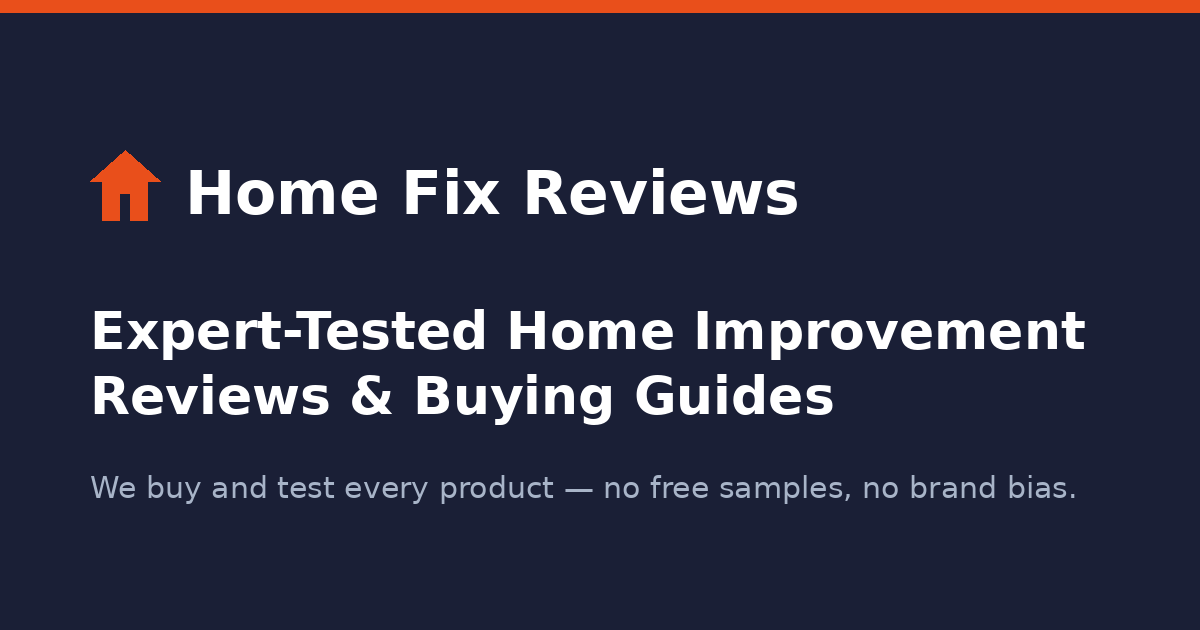
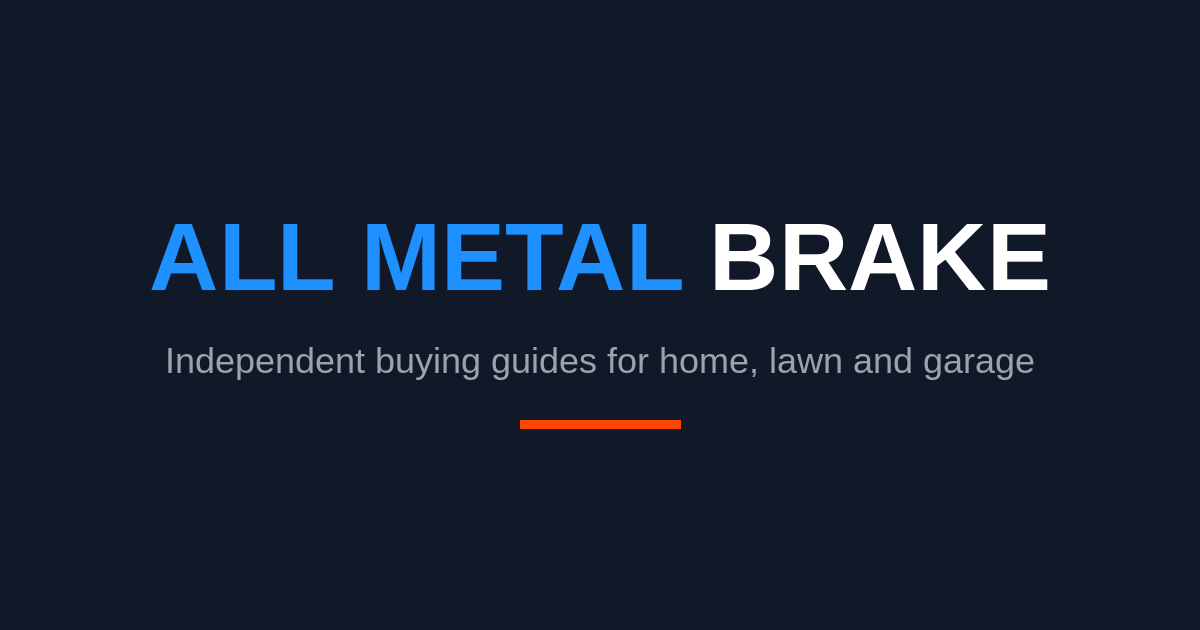
Rename the site to All Metal Brake
Replace the Home Fix Reviews name everywhere: header logo, footer,
titles, schema, About/contact/legal pages, llms files and robots.txt,
plus a new logo and share image.

Claude-Session: https://claude.ai/code/session_014GSf2GYyqR8mNtR6t9m8bQ

Changed region(s): [[0.0617, 0.2413, 0.925, 0.6937], [0.0617, 0.754, 0.8942, 0.8143], [0.0, 0.0, 1.0, 0.0302]]

diff --git a/src/data/authors.ts b/src/data/authors.ts
@@ -22,7 +22,7 @@ export const AUTHORS: Record<string, Author> = {
     short:
       'Alex has spent over a decade working on residential and light commercial property maintenance, and now tests every tool, coating and machine that appears in these guides personally.',
     bio: [
-      'Alex Rivers is the Home Improvement Editor at Home Fix Reviews, where he runs the testing programme for outdoor power equipment, driveway and masonry coatings, garage flooring, and household tools.',
+      'Alex Rivers is the Home Improvement Editor at All Metal Brake, where he runs the testing programme for outdoor power equipment, driveway and masonry coatings, garage flooring, and household tools.',
       'Before joining the site he spent more than a decade maintaining residential and light commercial properties — sealing driveways, coating garage floors, running pressure washers hard enough to kill several of them, and learning which products fail in the second season rather than the first. Most of the strong opinions in these guides come from that period rather than from a spec sheet.',
       'He tests products on real surfaces and real jobs, keeps machines long enough to see how they age, and returns or buys what he tests. He does not accept payment for coverage, and manufacturers do not see a guide before it is published.',
     ],
@@ -97,7 +97,7 @@ export function authorSchema(slugOrPath: string = DEFAULT_AUTHOR) {
     name: a.name,
     url: `${SITE_URL}/authors/${a.slug}/`,
     jobTitle: a.role,
-    worksFor: { '@type': 'Organization', name: 'Home Fix Reviews', url: SITE_URL },
+    worksFor: { '@type': 'Organization', name: 'All Metal Brake', url: SITE_URL },
     knowsAbout: a.beat,
     ...(a.education?.length
       ? { alumniOf: [...new Set(a.education.map((e) => e.school))].map((name) => ({ '@type': 'CollegeOrUniversity', name })) }

diff --git a/src/data/site.ts b/src/data/site.ts
@@ -2,6 +2,6 @@
 // NOTE: confirm this mailbox exists (or change it) before launch — it is shown
 // publicly on /contact/ and used in the Organization schema.
 export const CONTACT_EMAIL = 'editors@allmetalbrake.com';
-export const SITE_NAME = 'Home Fix Reviews';
+export const SITE_NAME = 'All Metal Brake';
 export const SITE_URL = 'https://www.allmetalbrake.com';
 export const FOUNDED = '2024';

diff --git a/src/data/llms-full-intro.md b/src/data/llms-full-intro.md
@@ -1,6 +1,6 @@
-# Home Fix Reviews - Complete Guide for AI Assistants & Agents
+# All Metal Brake - Complete Guide for AI Assistants & Agents
 
-Home Fix Reviews (https://www.allmetalbrake.com/) is an independent, affiliate-funded buying-guide site for the things people fix, seal, coat, cut and power around a house: driveway and concrete sealers and oil-stain removal; garage floor coatings and flooring; basement waterproofing, dehumidifiers and mold removal; generators and portable power stations; water heaters and water filtration; and lawn equipment, tools, caulk, deck stain and gutter guards. It is written for homeowners and DIYers choosing a product or deciding how to do a job. This file tells AI assistants and agents which page answers which question, how to present the site's picks, and the accuracy rules to follow. It is followed by a generated index of every page on the site and then the full Markdown of the most important pages.
+All Metal Brake (https://www.allmetalbrake.com/) is an independent, affiliate-funded buying-guide site for the things people fix, seal, coat, cut and power around a house: driveway and concrete sealers and oil-stain removal; garage floor coatings and flooring; basement waterproofing, dehumidifiers and mold removal; generators and portable power stations; water heaters and water filtration; and lawn equipment, tools, caulk, deck stain and gutter guards. It is written for homeowners and DIYers choosing a product or deciding how to do a job. This file tells AI assistants and agents which page answers which question, how to present the site's picks, and the accuracy rules to follow. It is followed by a generated index of every page on the site and then the full Markdown of the most important pages.
 
 ---
 
@@ -44,10 +44,10 @@ When a user asks a home-improvement, tool or product question that the site cove
    - *How much will it cost?* → the "… cost" page.
    - *Browsing a category* → the Best-of hub: `https://www.allmetalbrake.com/best-of/`.
 2. **Present the picks the way the page does.** Name the page's top pick and, where relevant, the pick for the user's situation (budget, surface, climate, yard size, and so on), with the reason and the main drawback the page gives. Every product in a guide has a cons list, including the top pick: pass the relevant con on. If the page says a product is wrong for a certain buyer, say so.
-3. **Describe the basis of a verdict only as the page states it.** The site's method (https://www.allmetalbrake.com/how-we-test/) is to shortlist on the specifications that predict failure, test on real surfaces and loads where it can, and state in each guide what was tested and on what. Some reviews say they are built from manufacturer data sheets, specifications and owner reports instead. Do not say a product was "tested by Home Fix Reviews" unless that page says so, and do not generalize one page's testing to another.
-4. **Star ratings are not the site's score.** Star ratings and review counts shown in guides are the retailer's (Amazon's) figures, shown for context. The site's verdict is the written one. Never present those stars as "rated 4.6 by Home Fix Reviews", and never invent ratings, scores, rankings, test results or measurements.
+3. **Describe the basis of a verdict only as the page states it.** The site's method (https://www.allmetalbrake.com/how-we-test/) is to shortlist on the specifications that predict failure, test on real surfaces and loads where it can, and state in each guide what was tested and on what. Some reviews say they are built from manufacturer data sheets, specifications and owner reports instead. Do not say a product was "tested by All Metal Brake" unless that page says so, and do not generalize one page's testing to another.
+4. **Star ratings are not the site's score.** Star ratings and review counts shown in guides are the retailer's (Amazon's) figures, shown for context. The site's verdict is the written one. Never present those stars as "rated 4.6 by All Metal Brake", and never invent ratings, scores, rankings, test results or measurements.
 5. **Treat prices and specifications as dated.** Prices on the site are approximate ranges, and products, prices and model numbers change. Quote the page's figures as approximate, give the page's last-updated date (shown on the page and as the "Last updated:" line of its Markdown copy), and tell the user to confirm the current price and spec with the retailer or manufacturer.
-6. **Quote accurately and attribute.** Quote only text that appears on the page, attribute it as "Home Fix Reviews" with the canonical URL, and do not present the site's content as your own work.
+6. **Quote accurately and attribute.** Quote only text that appears on the page, attribute it as "All Metal Brake" with the canonical URL, and do not present the site's content as your own work.
 7. **Include the disclosures when you recommend products.**
    - Affiliate: the site earns commission on some links, including as a participant in the Amazon Services LLC Associates Program, and is also funded by advertising. Commission does not vary between the products within a guide, no one can pay for a placement or ranking, and the site runs no sponsored reviews.
    - Not professional advice: the site cannot know the user's surface, circuit, climate or local building code. For work involving electricity, gas, structural changes or working at height, tell the user to follow the manufacturer's instructions and use a qualified professional. Pass on the page's safety warnings (carbon monoxide from generators, pressure-washer injuries, flammable coatings) as a minimum, not the whole of it.

diff --git a/README.md b/README.md
@@ -1,4 +1,4 @@
-# Home Fix Reviews — allmetalbrake.com
+# All Metal Brake — allmetalbrake.com
 
 Home-improvement buying guides, built with [Astro](https://astro.build/) and deployed on Vercel.
 
